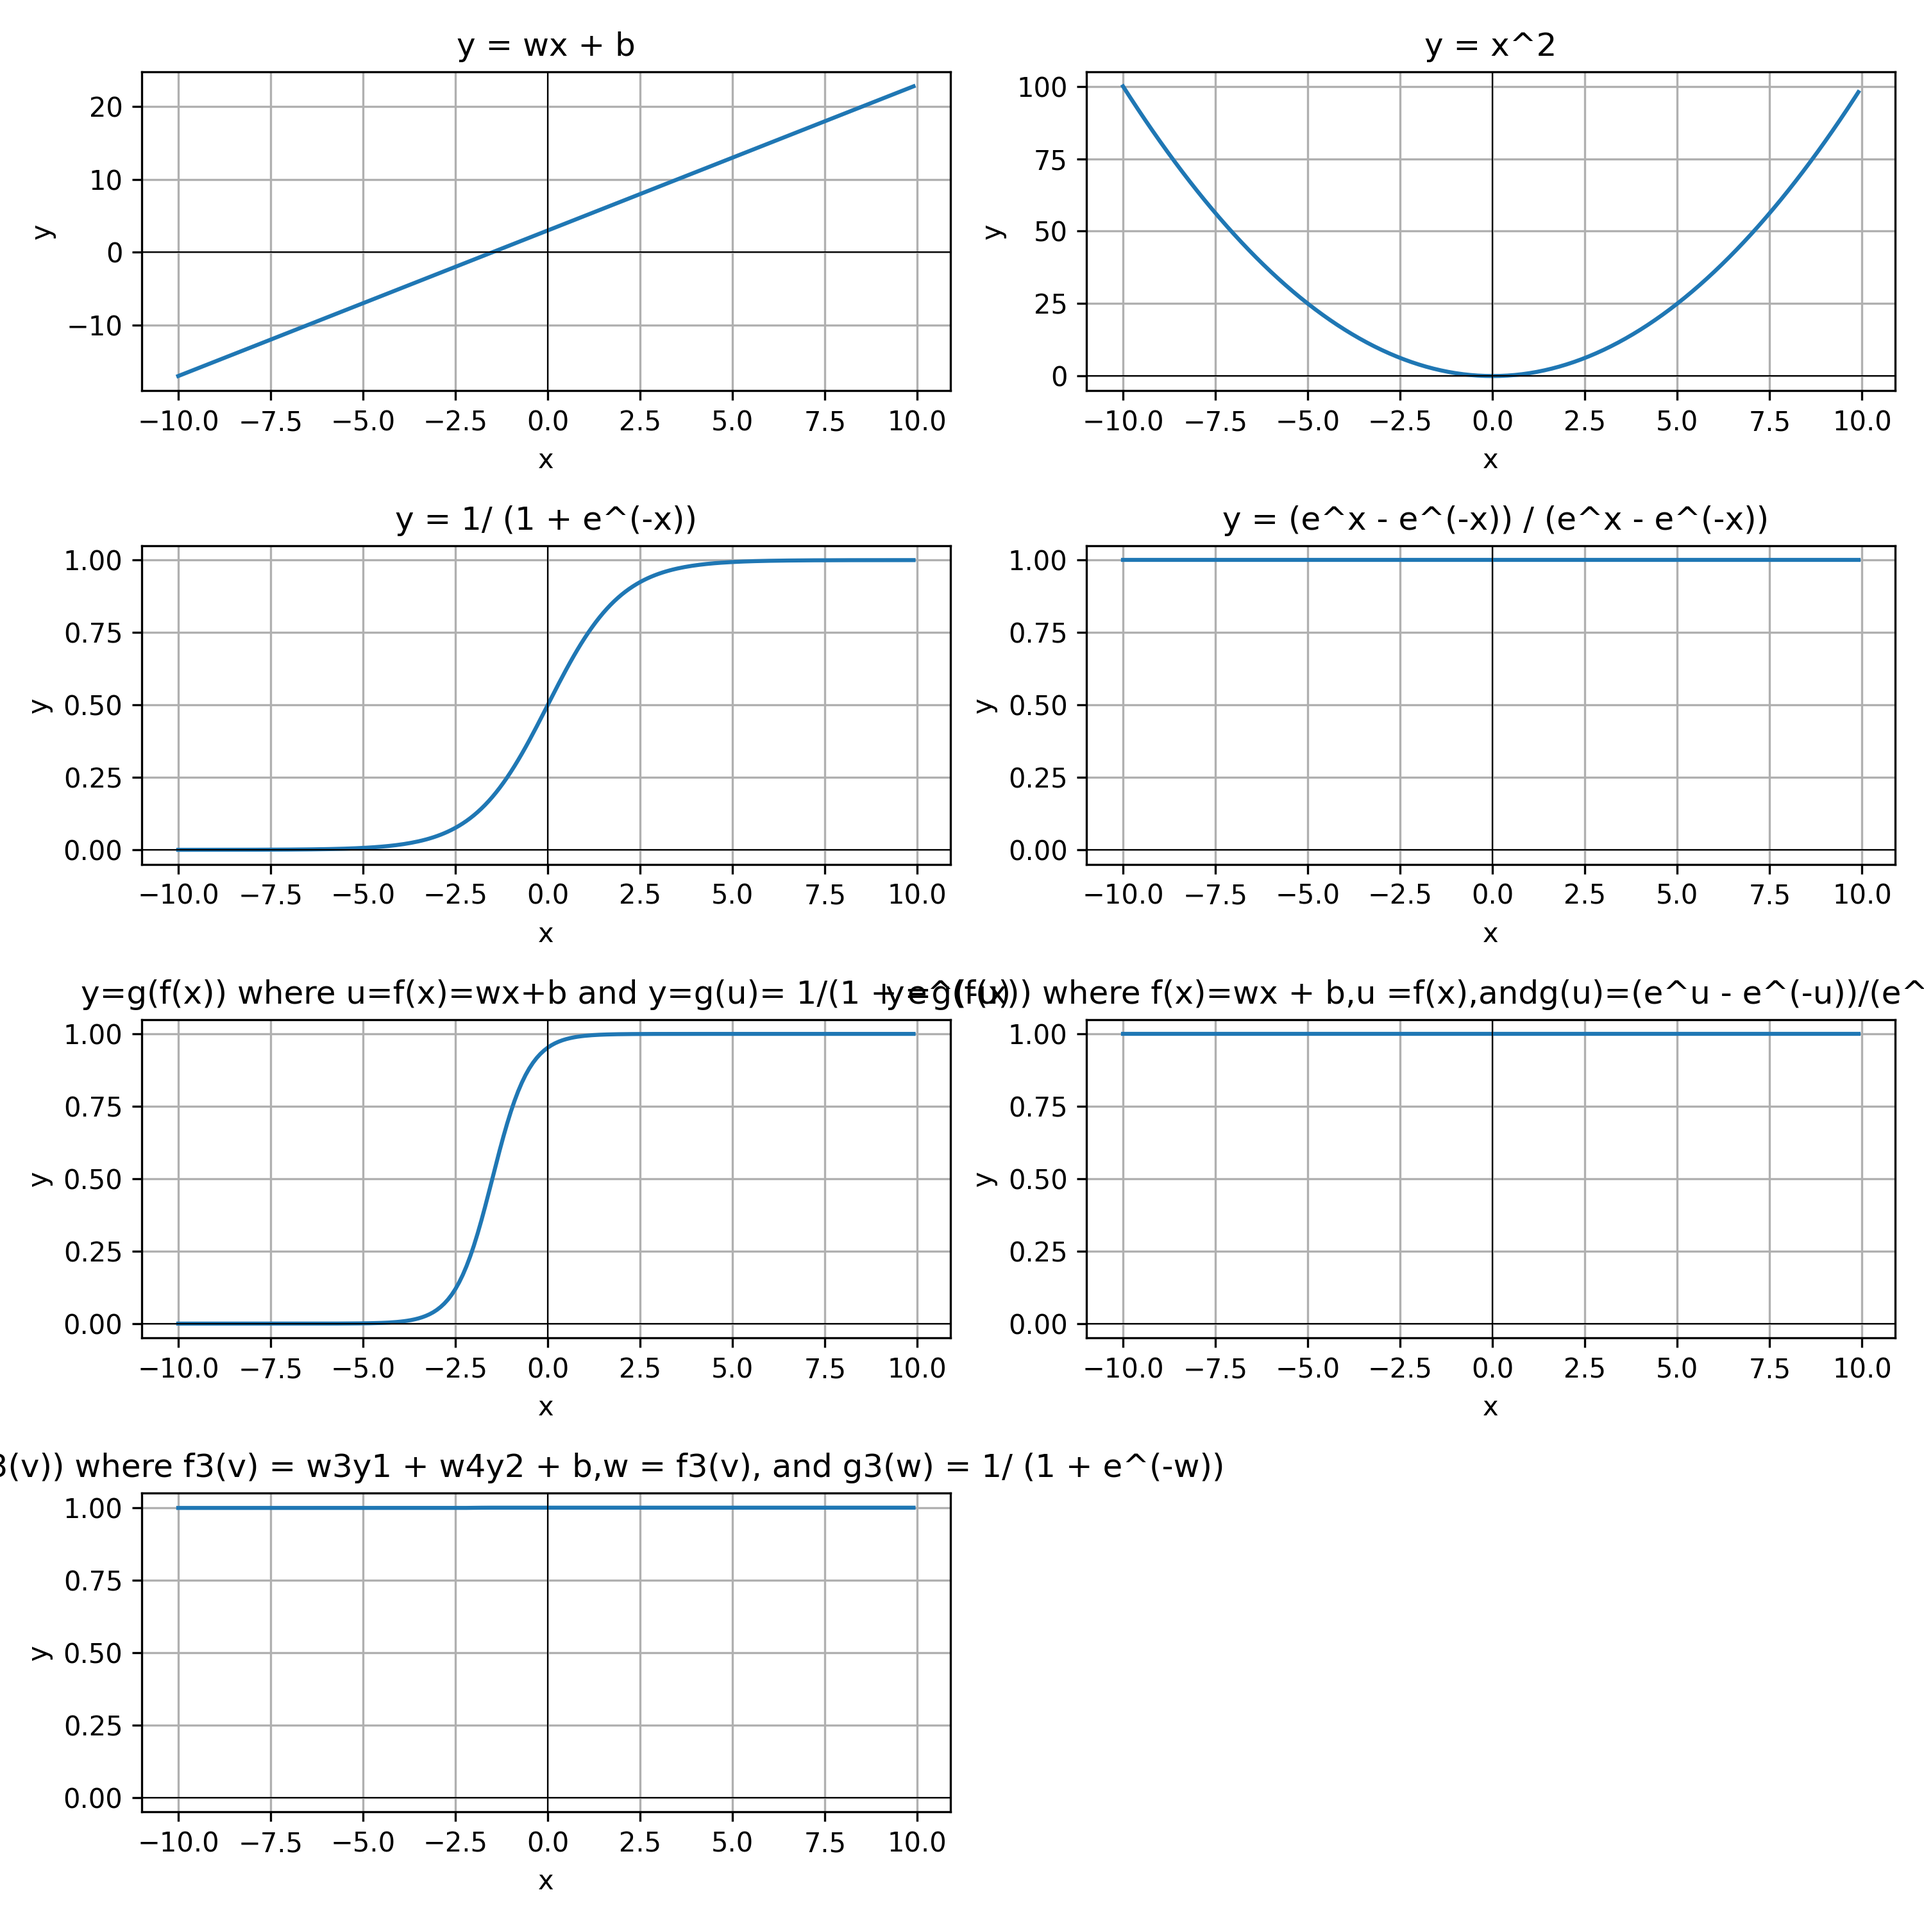
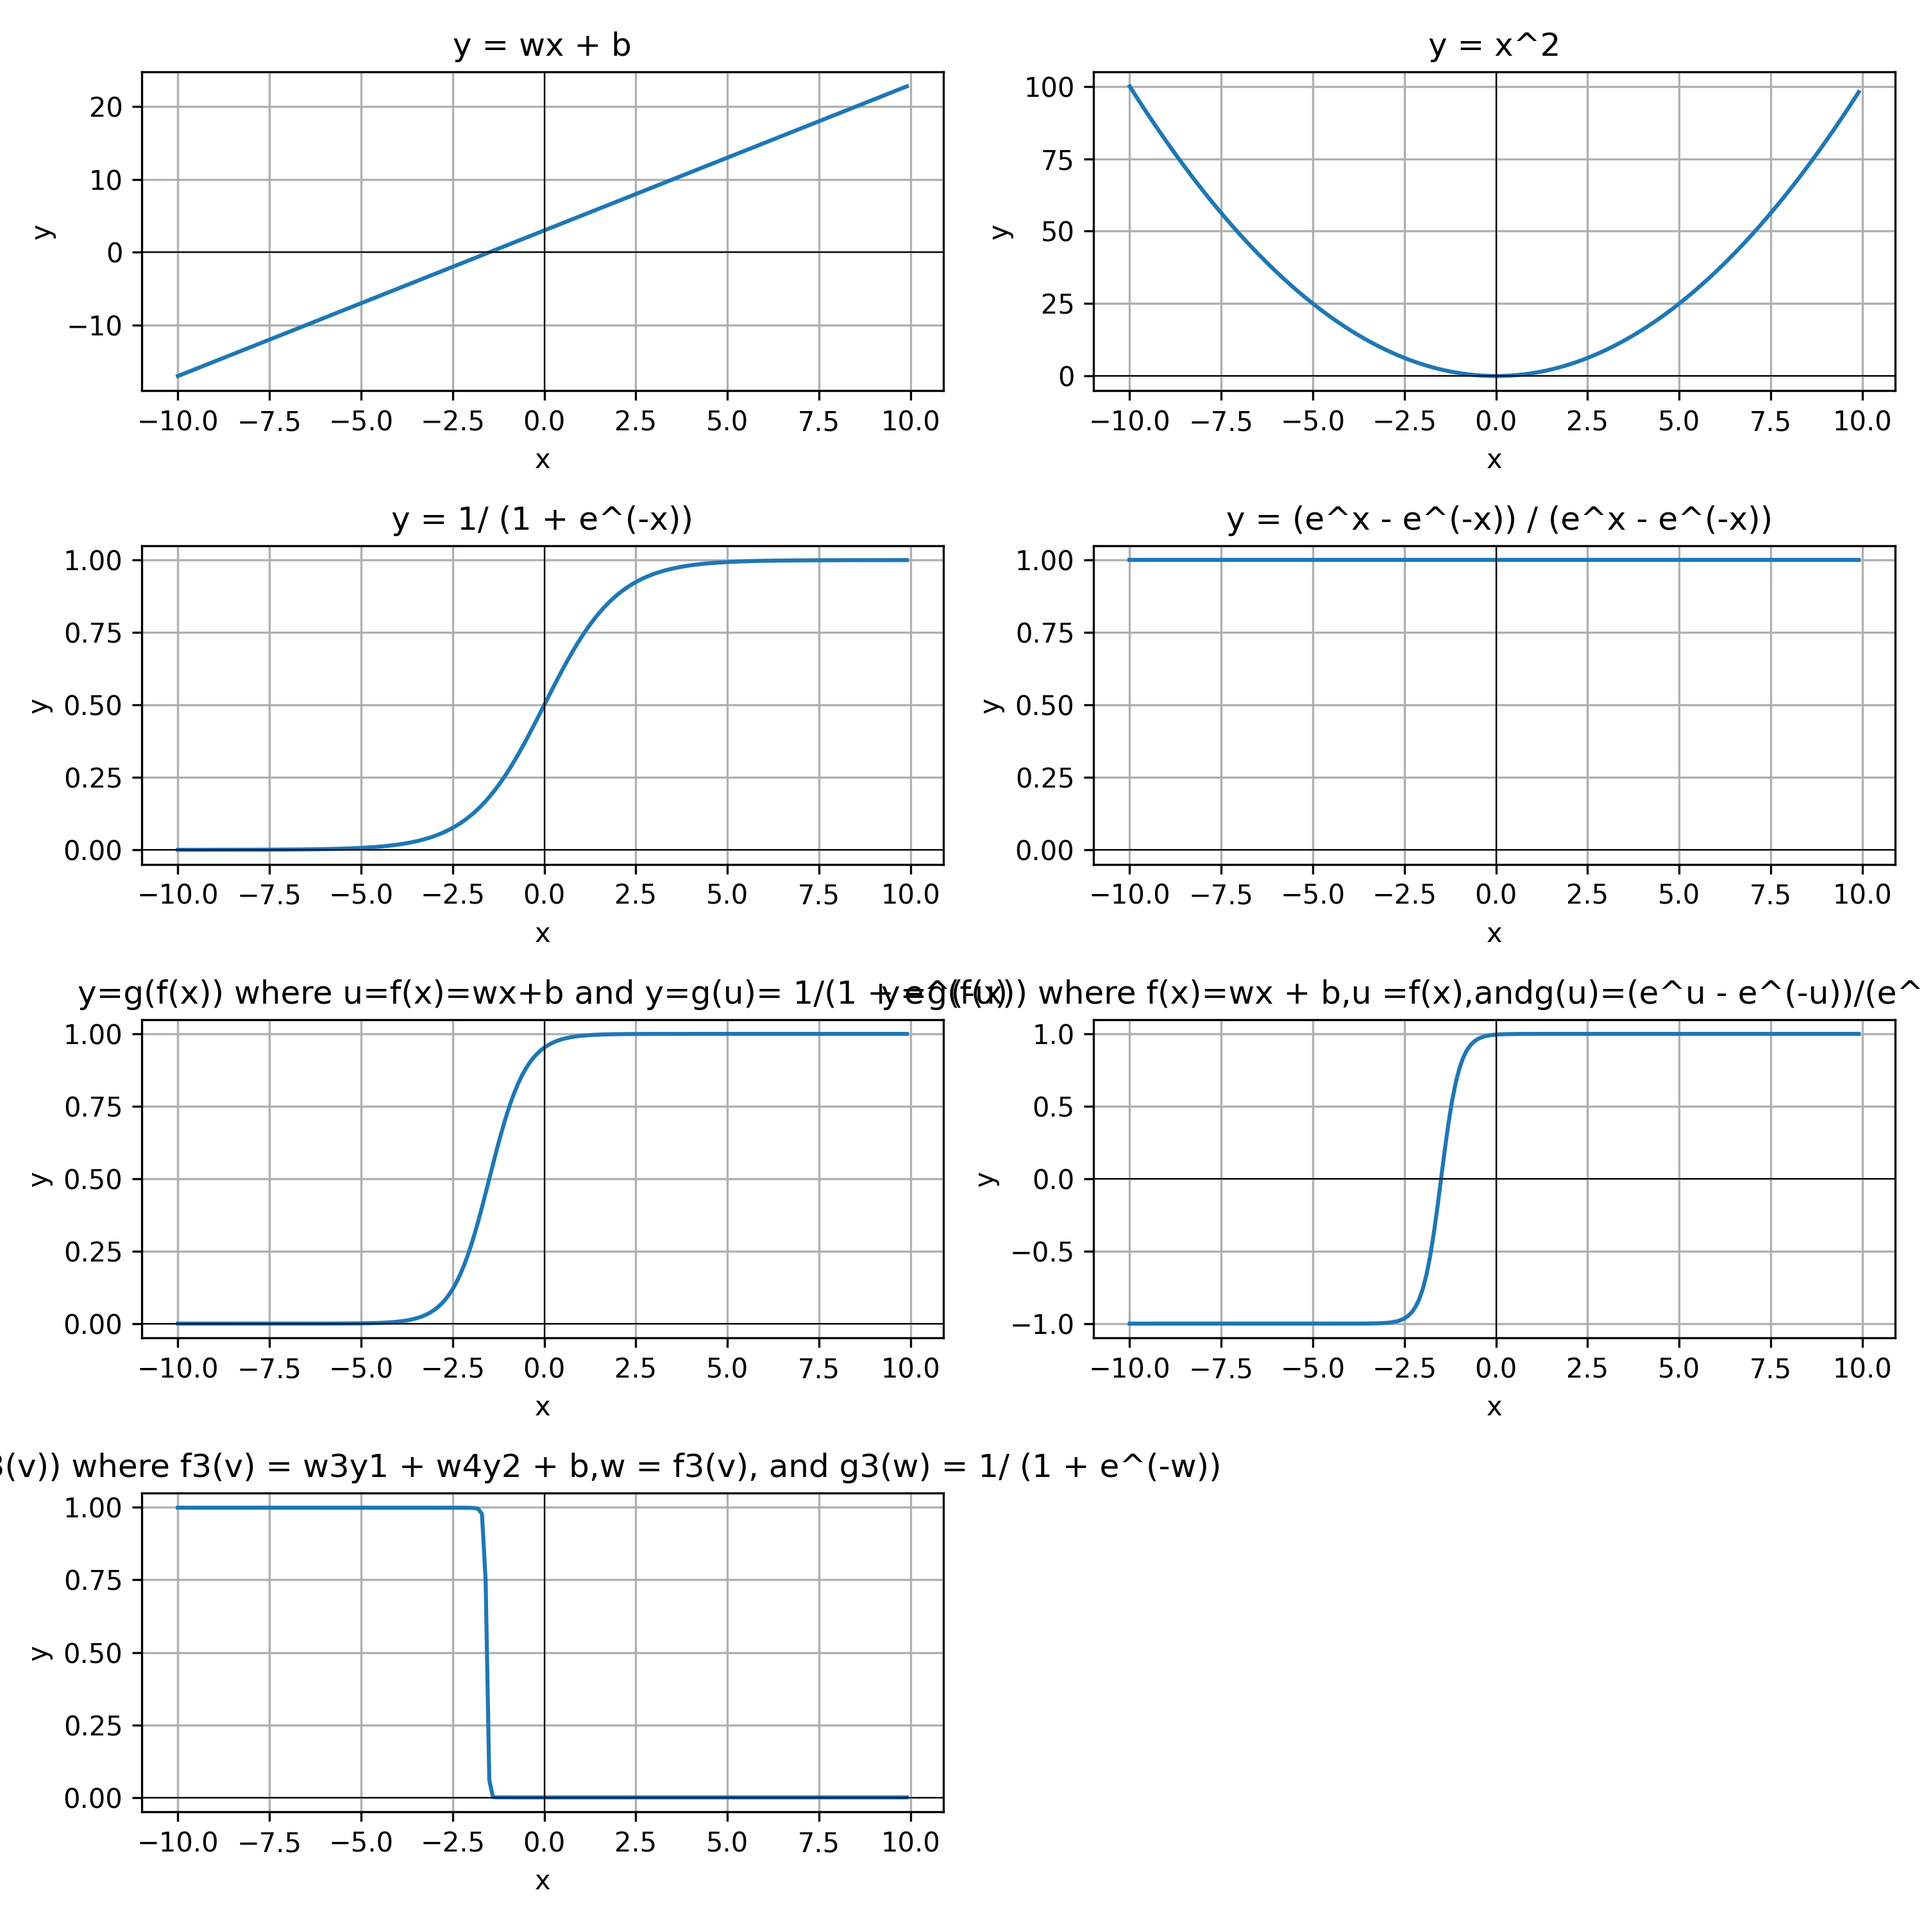
edited as task was edited by mam

diff --git a/A1/a1.py b/A1/a1.py
@@ -25,8 +25,8 @@ y4=((np.exp(x)-np.exp(-x))/(np.exp(x)-np.exp(-x)))
 #for y = g(f(x)) where u = f(x) = wx + b and y = g(u) = 1/ (1 + e^(-u))
 y5= 1/(1+np.exp(-y1))
 
-#for y = g(f(x)) where f(x) = wx + b, u = f(x), and g(u) = (e^u - e^(-u)) / (e^u - e^(-u))
-y6=((np.exp(y1)-np.exp(-y1))/(np.exp(y1)-np.exp(-y1)))
+#for y = g(f(x)) where f(x) = wx + b, u = f(x), and g(u) = (e^u - e^(-u)) / (e^u + e^(-u))
+y6=((np.exp(y1)-np.exp(-y1))/(np.exp(y1)+np.exp(-y1)))
 
 
 # for y = g3(f3(v)) where f3(v) = w3y1 + w4y2 + b, w = f3(v), and g3(w) = 1/ (1 + e^(-w))
@@ -43,8 +43,8 @@ b2=15
 x1=w2*x + b2
 y8=1/(1+np.exp(-x1))
 
-w3=10
-w4=12
+w3=-10
+w4=-12
 b=7
 y9=w3*y7+w4*y8+b
 y10=1/(1+np.exp(-y9))
@@ -100,7 +100,7 @@ plt.subplot(4,2,6)
 plt.plot(x,y6)
 plt.xlabel('x')
 plt.ylabel('y')
-plt.title('y=g(f(x)) where f(x)=wx + b,u =f(x),andg(u)=(e^u - e^(-u))/(e^u - e^(-u))')
+plt.title('y=g(f(x)) where f(x)=wx + b,u =f(x),andg(u)=(e^u - e^(-u))/(e^u + e^(-u))')
 plt.grid(True)
 plt.axhline(0, color='black', linewidth=0.5)
 plt.axvline(0, color='black', linewidth=0.5)
